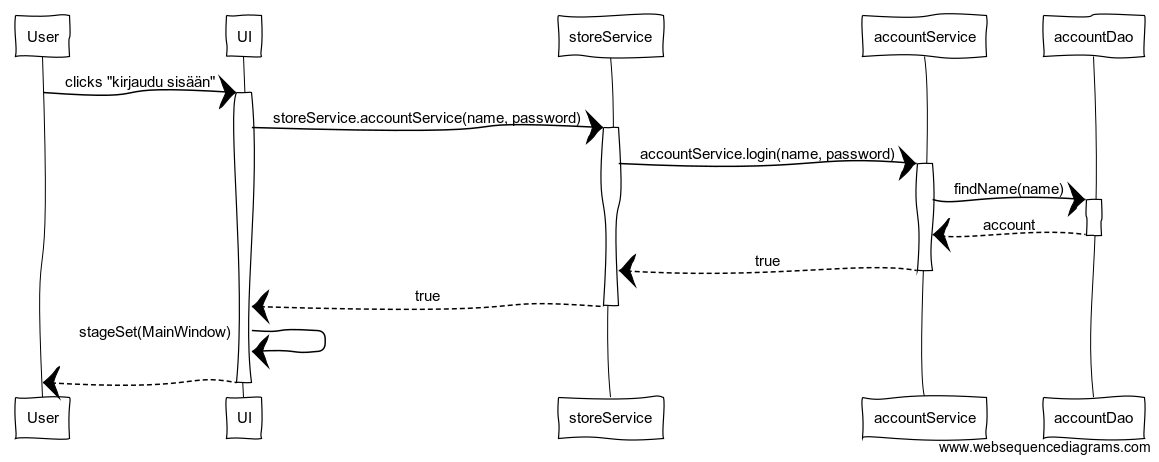
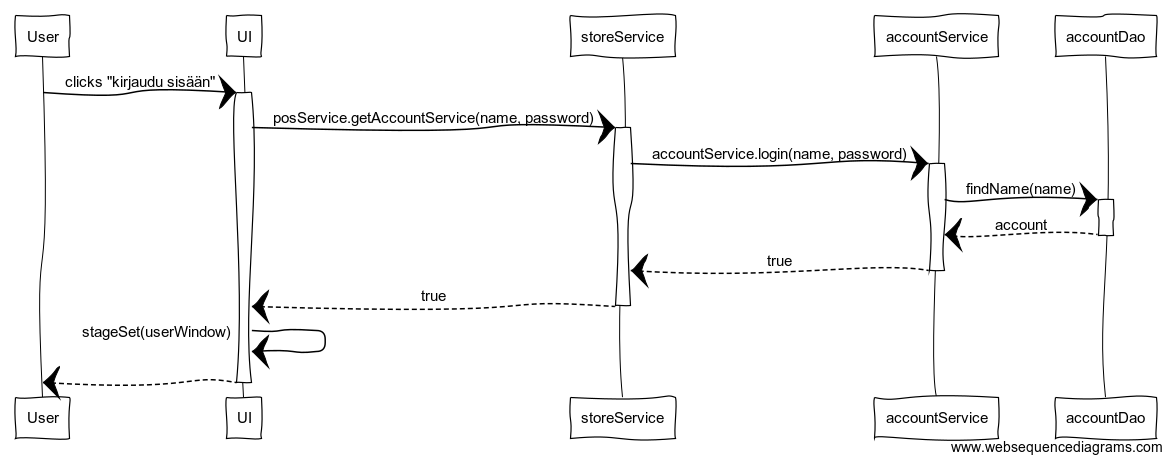
Päivitetään dokumentaatiota

diff --git a/src/main/java/itsepalvelupos/ui/PosUI.java b/src/main/java/itsepalvelupos/ui/PosUI.java
@@ -151,7 +151,6 @@ public class PosUI extends Application {
         });
 
         storeWindow = new Scene(storeGrid, 800, 600);
-        storeWindow.getStylesheets().add("/src/stylesheet.css");
 
         // Sisäänkirjautuminen
 
@@ -234,7 +233,6 @@ public class PosUI extends Application {
         });
 
         loginWindow = new Scene(grid, 800, 600);
-        loginWindow.getStylesheets().add("/src/stylesheet.css");
 
         // Käyttäjän alustaminen
 

diff --git a/dokumentaatio/arkkitehtuuri.md b/dokumentaatio/arkkitehtuuri.md
@@ -2,30 +2,49 @@
 
 ## Rakenne
 
-Ohjelman rakenne noudattelee kolmitasoista kerrosarkkitehtuuria. Pakkaus _itsepalvelupos.ui_ sisältää JavaFX:llä ja JFoenixilla toteutetun käyttöliittymän _itsepalvelupos.domain_ sovelluslogiikan ja _itsepalvelupos.dao_ tietojen tallentamisen tietokantaan.
+Ohjelman rakenne noudattelee kolmitasoista kerrosarkkitehtuuria. Pakkaus _itsepalvelupos.ui_ sisältää JavaFX:llä ja JFoenixilla toteutetun käyttöliittymän _itsepalvelupos.domain_  sovelluslogiikan ja _itsepalvelupos.dao_ tietojen tallentamisen tietokantaan.
+
+Pakkauskaavio:
+<img src="kuvat/luokka-pakkauskaavio.png" width="500">
 
 ## Sovelluslogiikka
 
-Sovelluksen loogisen datamallin muodostavat luokat Account, Product ja Store.
+Sovelluksen luokat Account, Product ja Store muodostavat sovelluksen datamallin.
 Account kuvaa kauppaa käyttäviä käyttäjiä, Product kaupassa olevia tuotteita ja Store itse kauppaa.
 
-ProductService vastaa kaikesta tuotteita käsittelevästä logiikasta ja vastaavasti AccountService kaikesta käyttäjiä koskevasta logiikasta.
-
-StoreService tarjoaa kaikille käyttöliittymän toiminnoille omat metodit.
+ProductService vastaa kaikesta tuotteita käsittelevästä logiikasta, vastaavasti AccountService kaikesta käyttäjiä koskevasta logiikasta ja Storeservice kauppaa koskevasta logiikasta.
+PosService yhdistää AccountServicen, ProductServicen ja StoreServicen tavalla, jota on helppo käsitellä käyttöliittymästä. 
   
-Alustava luokka/pakkauskaavio (tämä tulee varmasti muuttumaan):
+### Kirjautuminen
 
-<img src="kuvat/luokka-pakkauskaavio.png" width="500">
-
-Sekvessi kaavio kirjautumisesta, UI osuutta ei ole vielä toteutettu.
+Sekvenssikaavio kirjautumisesta:
 
 <img src="kuvat/sekvessikaavio.png" width="500">
 
+Kirjautuminen on toteutettu niin, käyttäjä syöttää käyttäjänimen ja salasanan käyttöliittymään. Tällöin PosUI kutsuu posService.getAccountService.login(String name, String password) metodia.
+AccountService tarkistaa AccountDaon: findName(String name) metodilla onko annettu käyttäjä olemassa. Jos se on, palauttaa AccountDao käyttäjää kuvaavan olion AccountServicelle. AccountService tarkistaa olion password kentästä onko annettu salasana oikein. Mikäli se on, päivittää AccountService annetun käyttäjän sisäänkirjautuneeksi käyttäjäksi. Tällöin login(name, password) metodi palauttaa true. Tällöin PosUI siirtyy userWindow ikkunaan käyttöliittymässä.
 
 ## Tietojen pysyväistallennus
 
-Pakkauksen _itsepalvelupos.database_ luokat _AccountDao_, _ProductDao_ ja _StoreDao_ huolehtivat tietojen tallettamisesta SQLite tietokantaan.
+Pakkauksen _itsepalvelupos.database_ luokat _AccountDao_, _ProductDao_ ja _StoreDao_ huolehtivat tietojen tallettamisesta SQLite tietokantaan noudattaen DAO -suunnittelumallia.
+Mikään ylemmän tason luokka ei käsittele tietokantaa suoraan. Käyttäjä määrittelee tietokannan nimen sovelluksen käynnistyksen yhteydessä. Sovelluksella ei ole lainkaan muita ulkoisia tiedostoja.
 
 ## Tietokanta
 
-Kaikki pysyvät tiedot tallennetaan oletuksena _pos.db_ nimiseen SQLite tietokantaan.
+Tieto tallennetaan kolmeen eri SQL tauluun: Accounts, Products ja Store. Kaikki käyttäjään liittyvä tieto tallennetaan Accounts tauluun ja vastaavasti kaikki tuotteisiin liittyvä Products tauluun.
+Store-tietokantataulu sisältää vain yhden kohteen, joka määrittää kaupan nimen ja kassan saldon.
+
+Tietokantakaavio:
+<img src="kuvat/tietokantakaavio.png" width="500">
+
+## Heikkoudet
+
+### Käyttöliittymä
+
+Käyttöliittymä on toteutettu kokonaan yhteen tiedostoon ja suurin osa sen toiminnallisuudesta on toteutettu start metodissa.
+Sovelluksessa on viisi eri ikkunaa: dataWindow tietokannan luomista varten, loginWindow käyttäjien luomista sekä kirjautumista varten,
+userWindow käyttäjän tietojen päivittämistä varten sekä mainWindow itse kauppaa varten. Nämä kaikki voitaisiin erittää omiin luokkiinsa.
+
+### Tietokanta
+
+DAO-luokkien välillä ja niiden sisällä on hyvin paljon saman kaltaista koodia. Koodin päälekkäisyyttä olisi varmasti mahdollista vähentää.

diff --git a/dokumentaatio/vaatimusmaarittely.md b/dokumentaatio/vaatimusmaarittely.md
@@ -2,11 +2,11 @@
 
 ## Sovelluksen tarkoitus
 
-Sovelluksen avulla käyttäjien on mahdollista ostaa tuotteita ennalta määritellystä listasta. Jokaisella käyttäjälä on oma tili, joka sisältää tiedot saldosta.
+Sovelluksen avulla käyttäjien on mahdollista ostaa tuotteita ennalta määritellystä listasta. Jokaisella käyttäjälä on oma tili, joka sisältää tiedot käyttäjän tallettamasta rahasta. Käyttäjä voi ostaa tällä rahalla tuotteita tuotelistasta.
 
 ## Käyttäjät
 
-Sovelluksessa on alussa vain _pääkäyttäjä_, jolla on oikeus lisätä uusia tuotteita ja poistaa muita käyttäjiä. Sovellukseen voi lisätä mielivaltaisen määrän _normaaleja käyttäjiä_. Normaaleille käyttäjille on mahdollista antaa pääkäyttäjän oikeudet.
+Käyttäjää luodessa voi valita tekeekö käyttäjästä _pääkäyttäjän_, jolla on oikeus lisätä uusia tuotteita ja poistaa muita käyttäjiä vai normaalin käyttäjän, joka voi vain lisätä rahaa omalle tilille ja ostaa tuotteita. Sovellukseen voi lisätä mielivaltaisen määrän _käyttäjiä_. Normaaleille käyttäjille on mahdollista antaa pääkäyttäjän oikeudet.
 
 ## Käyttöliittymäluonnos
 
@@ -28,9 +28,11 @@ Ikkunan yläkulmassa näkyy käyttäjätunnus ja saldo. Lopuksi alhaalta kirjaud
 
 ### Ennen kirjautumista
 
+- sovelluksen käynnistäjä voi luoda uuden tietokantataulun sekä antaa kaupalle nimen ja alkupääoman
+
 - käyttäjä voi luoda järjestelmään käyttäjätunnuksen
-  - käyttäjätunnuksen täytyy olla uniikki ja pituudeltaan vähintään 6 merkkiä
-  - salasanan täytyy olla vähiintää 6 merkkiä pitkä
+  - käyttäjätunnuksen täytyy olla uniikki ja pituudeltaan vähintään 3 merkkiä
+  - salasanan täytyy olla vähiintää 3 merkkiä pitkä
 
 - käyttäjä voi kirjautua järjestelmään
   - kirjautuminen onnistuu syötettäessä olemassaoleva käyttäjätunnus ja salasana kirjautumislomakkeelle
@@ -40,34 +42,37 @@ Ikkunan yläkulmassa näkyy käyttäjätunnus ja saldo. Lopuksi alhaalta kirjaud
 
 - käyttäjä näkee listan kaupan tuotteista
 
-- käyttäjä voi klikata tuotetta, jolloin ne lisätään ostettavien tuotteiden listalle
-
-- käyttäjä voi viimeistellä oston painalla Checkout näppäintä, jolloin tuotteiden hinta vähennetään käyttäjän saldosta
+- käyttäjä voi ostaa tuotteita
 
 - käyttäjä voi lisätä saldoa
 
-- käyttäjä voi kirjautua ulos järjestelmästä
+- käyttäjän vaihtaminen (Ei vielä implementoitu)
 
 ## Pääkäyttäjän oikeudet
 
-- voi lisätä tuotteita tuotteiden lisäyslomakkeella
+- voi lisätä tuotteita tuotteiden lisäyslomakkeella (Ei implementoitu käyttölittymässä)
 
-- voi poistaa muita käyttäjiä
+- voi poistaa muita käyttäjiä (Ei implementoitu käyttölittymässä)
 
-- voi muuttaa muiden käyttäjien salasanoj
+- voi muuttaa muiden käyttäjien salasanoja (Ei implementoitu käyttölittymässä)
 
-- voi hyväksyä saldo lisäykset
+- voi hyväksyä saldo lisäykset (Ei implementoitu)
+
+## Tietokanta
+
+- Pitää kirjaa tuotteiden määrästä
 
 ## Jatkokehitysideoita
 
-Perusversion jälkeen projektiin lisätään muita hyödyllisiä ominaisuuksia.
+##### Perusversion jälkeen projektiin lisätään muita hyödyllisiä ominaisuuksia.
 
 - ostoshistoria, joka pitää kirjaa ostetuista tuotteista
-
-- inventaario, johon voi määrittää kaupassa olevien tuotteiden määrät ja seurata muutoksia
 
 - laajemmat käyttäjätiedot, kuten sähköposti ja avatar
 
 - loppuneen tuotteen tilauspyyntö
 
 - erilliset sivut eri tuotekategorioille
+
+- ostoskori
+

diff --git a/dokumentaatio/testidokumentti.md b/dokumentaatio/testidokumentti.md
@@ -1,0 +1,33 @@
+# Testausdokumentti
+
+Ohjelman sovelluslogiikka ja DAO-toiminallisuus on testattu JUnit yksikkötesteillä ja kokeilemalla erilaisia ääritapauksia käsin. 
+
+## Yksikkö- ja integraatiotestaus
+
+Sovelluksen luokilla Account, Store ja Product ei ole lainkaan testejä, koska ne sisältävät vain konstruktoreita, settereitä ja gettereitä.
+Luokkia AccountService, ProductService ja StoreService testataan kattavasti yksikkö- ja integraatiotesteillä. Testit testaavat kaikkia metodeja 
+enemmän tai vähemmän. Testit pyrkivät kattamaan suurimman osan tapauksista, johon sovellusta käytettäessä voitaisiin törmätä.
+
+### DAO-luokat
+
+itsepaveluPOS käyttää SQLiteä kaiken pysyvän datan tallentamiseen. Sovelluksesta löytyvät DAO-luokat AccountDao, ProductDao, StoreDao ja Database.
+Kaikkia näiden luokkien metodeja testataan JUnit testeillä. Testit luovat väliaikaisen tietokannan, jonka avulla toiminallisuutta kokeillaan.
+
+### Testauskattavuus
+
+Sovelluksen testikattavuus on erittäin korkea. itsepalvepos.domain:illa 79% ja itsepalvelupos.database:lla 96%. posServicen luokan testit jäivät tekemättä.
+Käyttäliittymän testausta ei ole myöskään lainkaan automatisoitu.
+
+### Asennus
+
+Sovellus on testattu toimivan sekä Windows että Linux ympäristöissä.
+
+### Toiminnallisuudet
+
+Kaikki määrittelydokumentaation MVP-toiminallisuudet on testattu toimivaksi.
+
+## Virheilmoitukset
+
+Sovelluksessa virheilmoituksia ei ole toteutettu järkeävsti eikä yhtenäisesti. Suurin osa käyttäjän kohtaamista virheistä ilmoitetaan kuitenkin
+käyttäjälle käyttöliittymässä. Osa virheistä tulostetaan päätteeseen.
+

diff --git a/dokumentaatio/tuntikirjanpito.md b/dokumentaatio/tuntikirjanpito.md
@@ -10,5 +10,5 @@
 | 11.12. | 4    | Jatkoin sovellusken loppullisen sovelluslogiikan implementointia ja otin JavaDocin käyttöön. Käytännössä kaikki julkiset luokat on dokumentoitu. Arkkitehtuuridokumenttia laajensin hieman. Perehdyin vähän JavaFX käyttöön, mutta koodamista en vielä aloittanut.
 | 18.12. | 4    | Alotin käyttöliittymän toteuttamisen. Lisäsin uudet konstruktorit Product ja Account luokille.
 | 22.12. | 15    | Nostin testikattavuuden lähelle 100%. Dokumentoin kaikki julkiset metodit. Lisäsin käyttöliittymään tuen tietokantojen, käyttäjien ja kaupan luomista varten. Parantelin sovellusta siellä sun täällä.
-| 23.12. | 4    | Toteutin sovelluksen pääikunnan. Lisää yleistä viilailua.
-| yht   | 46   | | 
+| 23.12. | 6    | Toteutin sovelluksen pääikunnan. Lisää yleistä viilailua. Kirjoitin testidokumentin, laajensin arkkitehtuuridokumenttia, päivitin vaatimusmäärittelyn ja käyttöohjeen.
+| yht   | 48   | | 

diff --git a/dokumentaatio/kayttoohje.md b/dokumentaatio/kayttoohje.md
@@ -7,7 +7,7 @@ Lataa tiedosto [itsepalveluPOS-viikko6-dl.jar](https://github.com/villeheikkila/
 Ohjelma käynnistetään komennolla 
 
 ```
-java -jar itsepalveluPOS-viikko6-dl.jar
+java -jar itsepalveluPOS-release.jar
 ```
 
 ## Kirjautuminen
